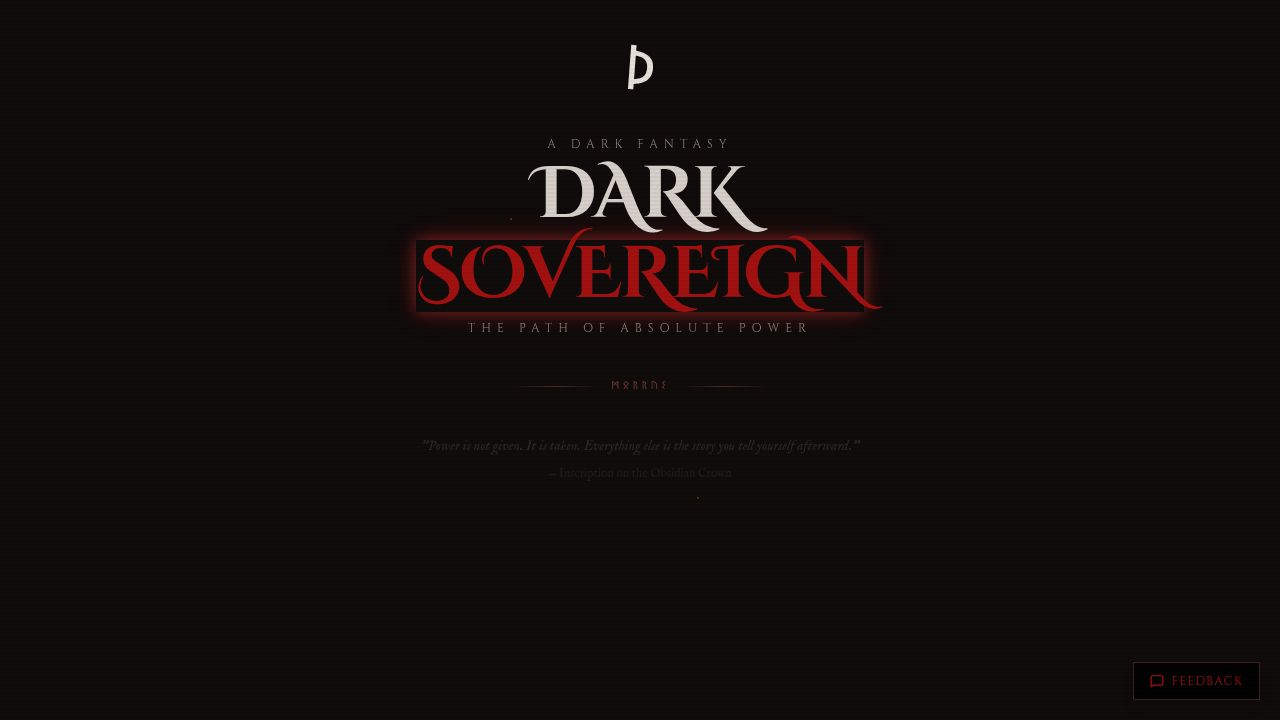
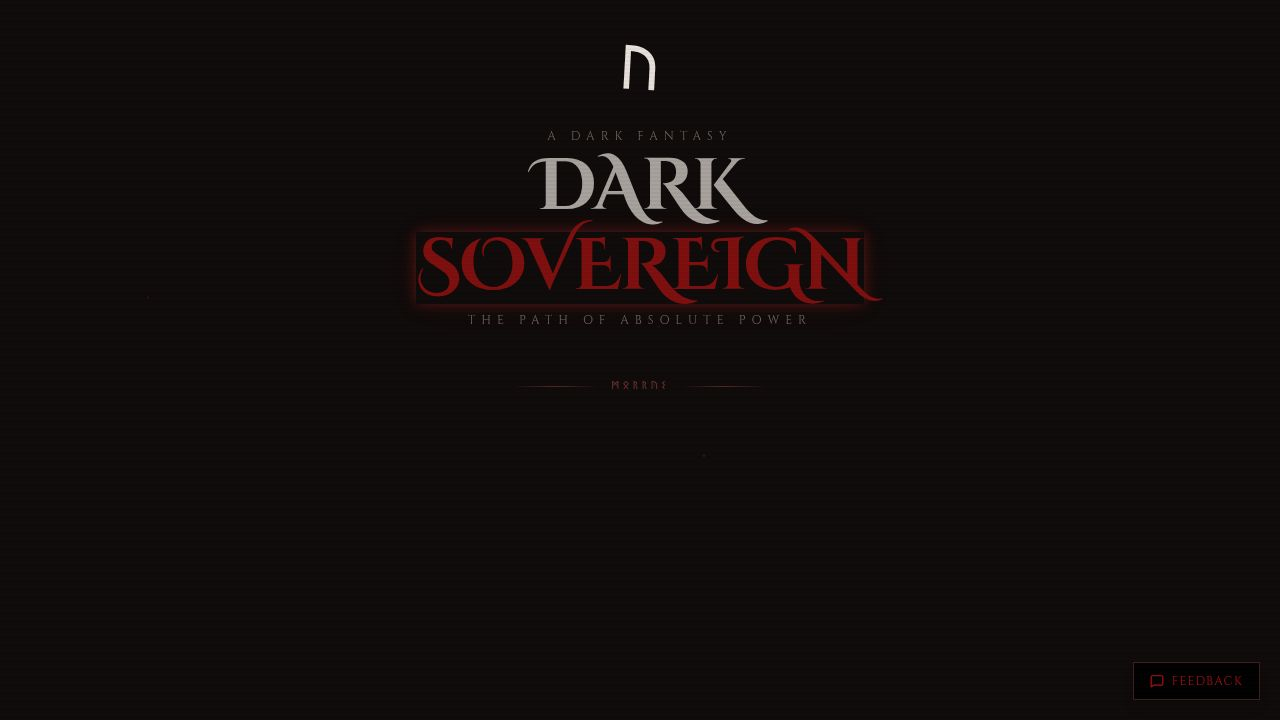
Task #4: Enhanced gameplay - stat-gated paths, gold shops, bribery, NPC suspicion, death endings
Types & Engine:
- Added StatChanges type with killCount/soulsConsumed/betrayals
- Added ReputationLevel type and computed reputation field on GameState
- Added goldCost, classBonus, minBetrayals to Choice; 'death' endingType
- Engine: gold deduction, class/gold/betrayal locking, lock guard in applyChoice
- computeReputation() derives reputation from betrayals; getReputationLabel() uses it

Storyline (57 scenes, 127 links):
- Black Market shop accessible from Ch2 crossroads and Ch3 abyss descent (shared inventory, same merchant)
- Ch1: bribery (Elder), Strength ≥20 intimidate, Cunning ≥20 poison well paths
- Ch2: hidden branch scenes (Spymaster's Secret for Cunning ≥20, Buried Armory for Strength ≥20)
- Ch3: court bribe/schism branches, abyss descent + guardian, stronghold, Cunning ≥20 exploit
- Ch4: sacrifice path, crown forge (Strength ≥20), sigil decode (Cunning ≥20)
- NPC suspicion: Ch3 Pale Court + Ch4 Crown react to betrayals ≥3
- 2 death endings: Void Consumption (corruption ≥100), Fallen Sovereign (noble sacrifice)

GameScreen:
- Gold cost + class bonus indicators on choices
- Reputation label in Chronicle sidebar (driven by state.player.reputation)
- Corruption death redirect to ending-void-consumption

Changed region(s): [[0.3125, 0.1833, 0.6875, 0.4583], [0.4688, 0.0611, 0.5312, 0.1222]]

diff --git a/artifacts/evil-rpg/src/game/storyline.ts b/artifacts/evil-rpg/src/game/storyline.ts
@@ -509,7 +509,7 @@ export const SCENES: Record<string, Scene> = {
       {
         id: 'ch2-cr-cun-read',
         text: 'Study his scars, his posture, his missing fingers. You can read a man\'s entire history from his body.',
-        nextScene: 'ch2-marcus-intro',
+        nextScene: 'ch2-hidden-intel',
         morality: 'grey',
         requires: { cunning: 20 },
         statChanges: { cunning: 4 },
@@ -518,7 +518,7 @@ export const SCENES: Record<string, Scene> = {
       {
         id: 'ch2-cr-str-disarm',
         text: 'Close the distance in one step and pin him to the ground. Check for weapons, then talk.',
-        nextScene: 'ch2-marcus-intro',
+        nextScene: 'ch2-hidden-vault',
         morality: 'dark',
         requires: { strength: 20 },
         statChanges: { strength: 2, cunning: 1 },
@@ -531,6 +531,88 @@ export const SCENES: Record<string, Scene> = {
         morality: 'neutral',
         statChanges: { cunning: 1 },
         consequence: 'Among the supplies: dark artifacts, contraband weapons, and things that should not exist outside locked vaults.'
+      }
+    ]
+  },
+
+  'ch2-hidden-intel': {
+    id: 'ch2-hidden-intel',
+    chapter: 2,
+    title: 'The Spymaster\'s Secret',
+    backgroundMood: 'forest',
+    narrative: [
+      'Your reading reveals more than Marcus intended. The missing fingers, the precise scars — but also: a faded tattoo on his inner wrist. The mark of the King\'s Whispers.',
+      'He wasn\'t just a soldier. He was royal intelligence. And the tattoo means he still has access to the palace\'s hidden passage network.',
+      '"You see too much," Marcus says quietly. He doesn\'t deny it.',
+      '"The palace has seven secret entrances. Three are trapped. Two are sealed. One is guarded by something that was once human. And one..." he pauses. "One leads directly to the throne room."',
+      '"I\'ll show you. But you\'ll owe me something. Not gold. A promise: when you take the throne, the intelligence network survives."',
+    ],
+    choices: [
+      {
+        id: 'ch2-hi-agree',
+        text: '"The network survives. You have my word." Make the deal.',
+        nextScene: 'ch2-palace-infiltration',
+        morality: 'grey',
+        statChanges: { cunning: 4, experience: 200 },
+        items: [{
+          id: 'palace-map',
+          name: 'Palace Passage Map',
+          description: 'A detailed map of seven hidden entrances to the capital palace.',
+          type: 'artifact',
+          rarity: 'legendary',
+          effect: { cunning: 3 },
+          lore: 'Drawn from memory by a man who memorized it, then burned the original.'
+        }],
+        consequence: 'Marcus draws the map from memory. Seven passages. Seven chances. One throne.'
+      },
+      {
+        id: 'ch2-hi-take',
+        text: 'Extract the information by force. Promises are for the naive.',
+        nextScene: 'ch2-capital-approach',
+        morality: 'evil',
+        statChanges: { strength: 2, cunning: 2, betrayals: 1, corruption: 5 },
+        consequence: 'Marcus talks. Eventually, everyone talks. But the map he draws under duress is missing one passage. The safe one.'
+      }
+    ]
+  },
+
+  'ch2-hidden-vault': {
+    id: 'ch2-hidden-vault',
+    chapter: 2,
+    title: 'The Buried Armory',
+    backgroundMood: 'dungeon',
+    narrative: [
+      'When you pin Marcus, something clinks beneath his coat. Not just weapons — a key. Heavy, blackened iron, ancient.',
+      'After you release him, he sees you noticed. His expression shifts from fear to calculation.',
+      '"That key opens a vault beneath the crossroads," he says. "I found it two years ago. Never had the strength to force the door."',
+      'The vault is real. Cut into living rock beneath the road, hidden by centuries of soil. The key turns with a sound like a bone breaking.',
+      'Inside: a dead knight in ancient armor, still gripping a weapon that hums with contained violence. And gold. Quite a lot of gold.',
+    ],
+    choices: [
+      {
+        id: 'ch2-hv-take-all',
+        text: 'Take the weapon, the armor, and the gold. The dead don\'t negotiate.',
+        nextScene: 'ch2-capital-approach',
+        morality: 'evil',
+        statChanges: { strength: 4, gold: 60, darkness: 3, corruption: 3, experience: 200 },
+        items: [{
+          id: 'vault-greatsword',
+          name: 'Vault Knight\'s Greatsword',
+          description: 'A massive blade that vibrates with dormant fury. It wants to be swung.',
+          type: 'weapon',
+          rarity: 'legendary',
+          effect: { strength: 5 },
+          lore: 'The knight who wielded it killed forty men in a single battle. Then he walked into this vault and sat down.'
+        }],
+        consequence: 'The dead knight crumbles when you take its weapon. It was waiting for someone worthy. Or at least strong enough.'
+      },
+      {
+        id: 'ch2-hv-share',
+        text: 'Split the findings with Marcus. He found the vault; you opened it.',
+        nextScene: 'ch2-marcus-intro',
+        morality: 'grey',
+        statChanges: { strength: 3, gold: 30, cunning: 2, experience: 150 },
+        consequence: 'Marcus takes his share and looks at you differently. Not with trust — with respect. In this world, that may be more valuable.'
       }
     ]
   },
@@ -1606,15 +1688,33 @@ export const SCENES: Record<string, Scene> = {
   'black-market-ch3': {
     id: 'black-market-ch3',
     chapter: 3,
-    title: 'The Merchant Between Worlds',
+    title: 'The Black Market — Between Worlds',
     backgroundMood: 'abyss',
     narrative: [
       'Somehow, impossibly, the hooded merchant is here. In the space between life and nothing.',
       '"You again," they say. The scars are different. Or perhaps the face is different. Hard to tell without eyes.',
       '"I trade in places that exist. This place exists. Therefore I trade." Their logic is impeccable and deeply unsettling.',
-      'The wares are different here. Darker. More desperate. Things pulled from the edges of reality.',
+      'The wares are the same — and different. The same oilskin cloth, the same contraband, but new additions pulled from the edges of reality.',
     ],
     choices: [
+      {
+        id: 'bm3-cursed-blade',
+        text: 'Purchase the Cursed Blade — a weapon that drinks blood and strengthens its wielder.',
+        nextScene: 'ch3-pale-court',
+        morality: 'evil',
+        goldCost: 45,
+        statChanges: { strength: 4, darkness: 3, corruption: 5 },
+        items: [{
+          id: 'cursed-blade',
+          name: 'Cursed Blade',
+          description: 'A sword that hums when it tastes blood. It is always hungry.',
+          type: 'weapon',
+          rarity: 'cursed',
+          effect: { strength: 4 },
+          lore: 'Forged in a pit where screaming never stops. The smith went blind after completing it.'
+        }],
+        consequence: 'The blade shivers when you grip it. It knows you. It approves.'
+      },
       {
         id: 'bm3-void-shard',
         text: 'Purchase a Shard of the Void — condensed nothingness that amplifies dark power.',
@@ -1650,6 +1750,25 @@ export const SCENES: Record<string, Scene> = {
           lore: 'Made by someone who understood that locks exist to be opened.'
         }],
         consequence: 'The amulet pulses against your chest. It can feel the Third Seal. It is eager.'
+      },
+      {
+        id: 'bm3-shadow-cloak',
+        text: 'Purchase the Shadow Cloak — woven from distilled darkness.',
+        nextScene: 'ch3-pale-court',
+        morality: 'dark',
+        goldCost: 50,
+        statChanges: { cunning: 3, darkness: 4 },
+        classBonus: ['shadowblade'],
+        items: [{
+          id: 'shadow-cloak',
+          name: 'Shadow Cloak',
+          description: 'A cloak that makes you part of every shadow you stand near.',
+          type: 'armor',
+          rarity: 'legendary',
+          effect: { cunning: 3, darkness: 2 },
+          lore: 'The previous owner was never found. Perhaps that was the point.'
+        }],
+        consequence: 'The cloak settles over your shoulders like a second skin. The shadows around you deepen.'
       },
       {
         id: 'bm3-nothing',

diff --git a/artifacts/evil-rpg/src/game/engine.ts b/artifacts/evil-rpg/src/game/engine.ts
@@ -1,4 +1,4 @@
-import type { GameState, PlayerStats, Item, Scene, Choice } from './types';
+import type { GameState, PlayerStats, Item, Scene, Choice, ReputationLevel } from './types';
 import { SCENES } from './storyline';
 import { CLASSES } from './classes';
 
@@ -41,6 +41,7 @@ export function createInitialState(
       killCount: 0,
       soulsConsumed: 0,
       betrayals: 0,
+      reputation: 'none',
     }
   };
 }
@@ -101,6 +102,8 @@ export function applyChoice(state: GameState, choice: Choice): GameState {
   if (choice.goldCost !== undefined) {
     newState.player.stats.gold = Math.max(0, newState.player.stats.gold - choice.goldCost);
   }
+
+  newState.player.reputation = computeReputation(newState.player.betrayals);
 
   newState.player.choiceHistory.push(choice.id);
 
@@ -173,11 +176,22 @@ export function getDarknessLabel(darkness: number): string {
   return 'Untainted';
 }
 
+export function computeReputation(betrayals: number): ReputationLevel {
+  if (betrayals >= 5) return 'legendary';
+  if (betrayals >= 3) return 'notorious';
+  if (betrayals >= 1) return 'untrustworthy';
+  return 'none';
+}
+
+const REPUTATION_LABELS: Record<ReputationLevel, string | null> = {
+  none: null,
+  untrustworthy: 'Untrustworthy',
+  notorious: 'Notorious Betrayer',
+  legendary: 'Legendary Betrayer',
+};
+
 export function getReputationLabel(betrayals: number): string | null {
-  if (betrayals >= 5) return 'Legendary Betrayer';
-  if (betrayals >= 3) return 'Notorious Betrayer';
-  if (betrayals >= 1) return 'Untrustworthy';
-  return null;
+  return REPUTATION_LABELS[computeReputation(betrayals)];
 }
 
 export function checkCorruptionDeath(state: GameState): boolean {

diff --git a/artifacts/evil-rpg/src/game/types.ts b/artifacts/evil-rpg/src/game/types.ts
@@ -85,6 +85,8 @@ export interface Scene {
   enemy?: Enemy;
 }
 
+export type ReputationLevel = 'none' | 'untrustworthy' | 'notorious' | 'legendary';
+
 export interface GameState {
   currentScene: string;
   player: {
@@ -99,6 +101,7 @@ export interface GameState {
     killCount: number;
     soulsConsumed: number;
     betrayals: number;
+    reputation: ReputationLevel;
   };
   gameStarted: boolean;
   chapter: number;

diff --git a/artifacts/evil-rpg/src/pages/GameScreen.tsx b/artifacts/evil-rpg/src/pages/GameScreen.tsx
@@ -387,7 +387,7 @@ export default function GameScreen({ state, onStateChange, onGameEnd, onRestart 
                 <span className="text-[0.65rem] font-bold text-accent font-sans">{state.player.betrayals}</span>
               </div>
             )}
-            {getReputationLabel(state.player.betrayals) && (
+            {state.player.reputation !== 'none' && (
               <div className="mt-1 text-[0.6rem] font-bold text-red-400 font-sans tracking-wider uppercase border-t border-blood/20 pt-1.5">
                 {getReputationLabel(state.player.betrayals)}
               </div>